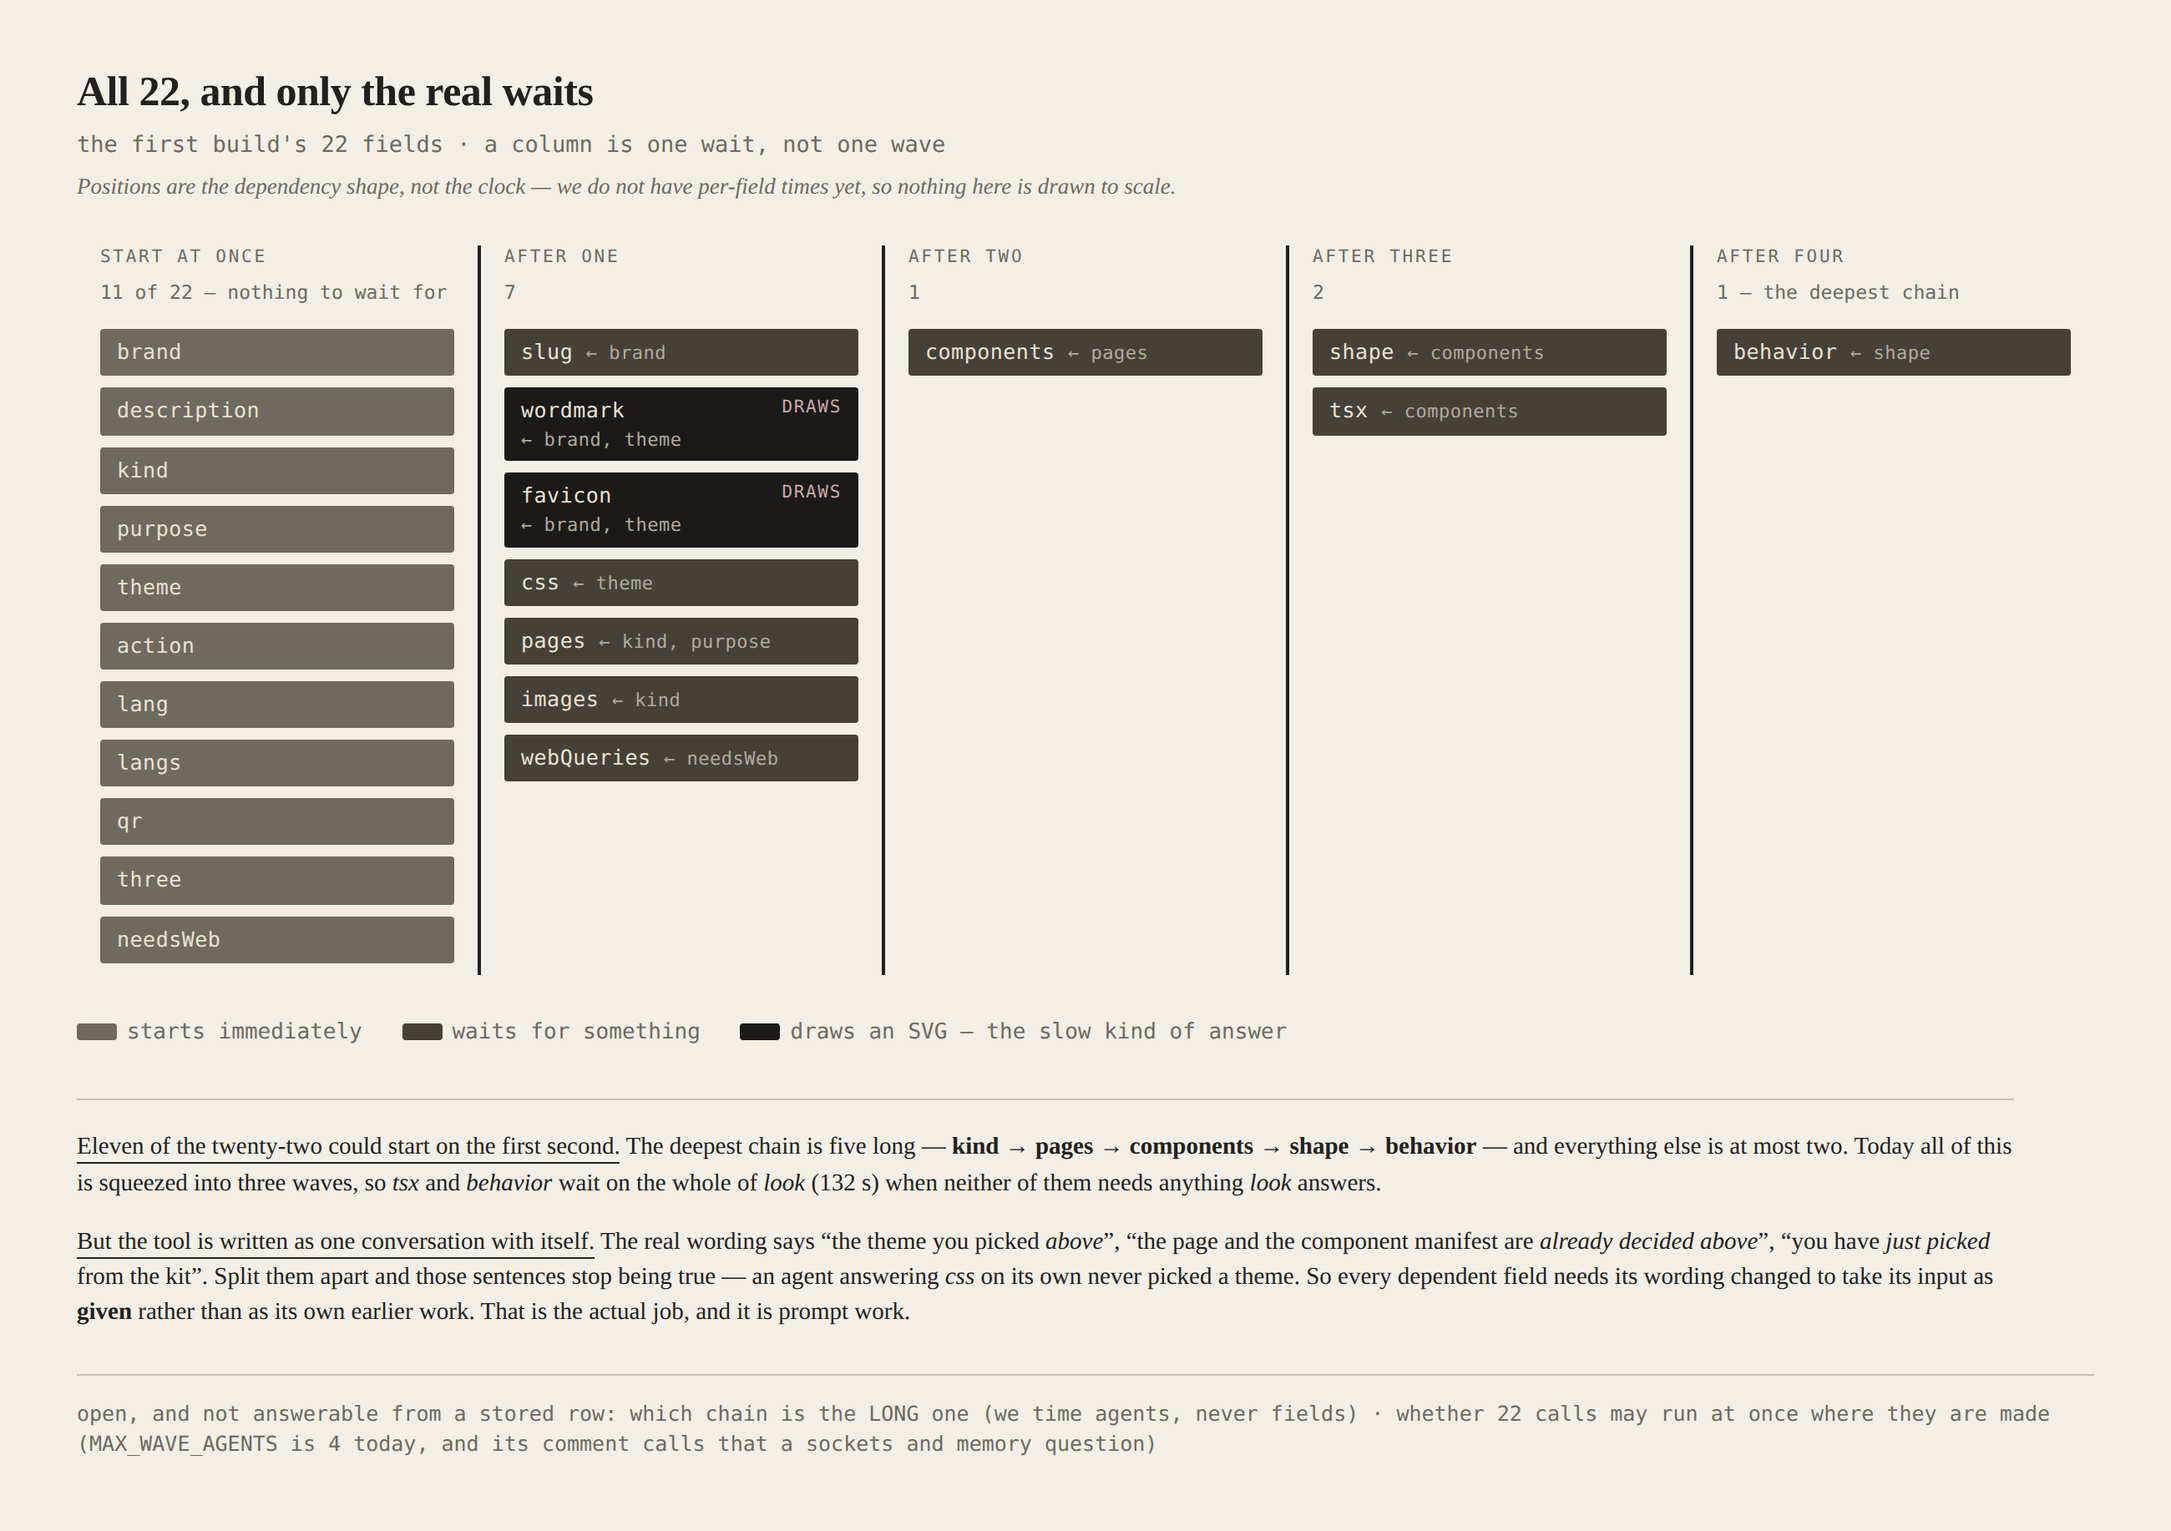
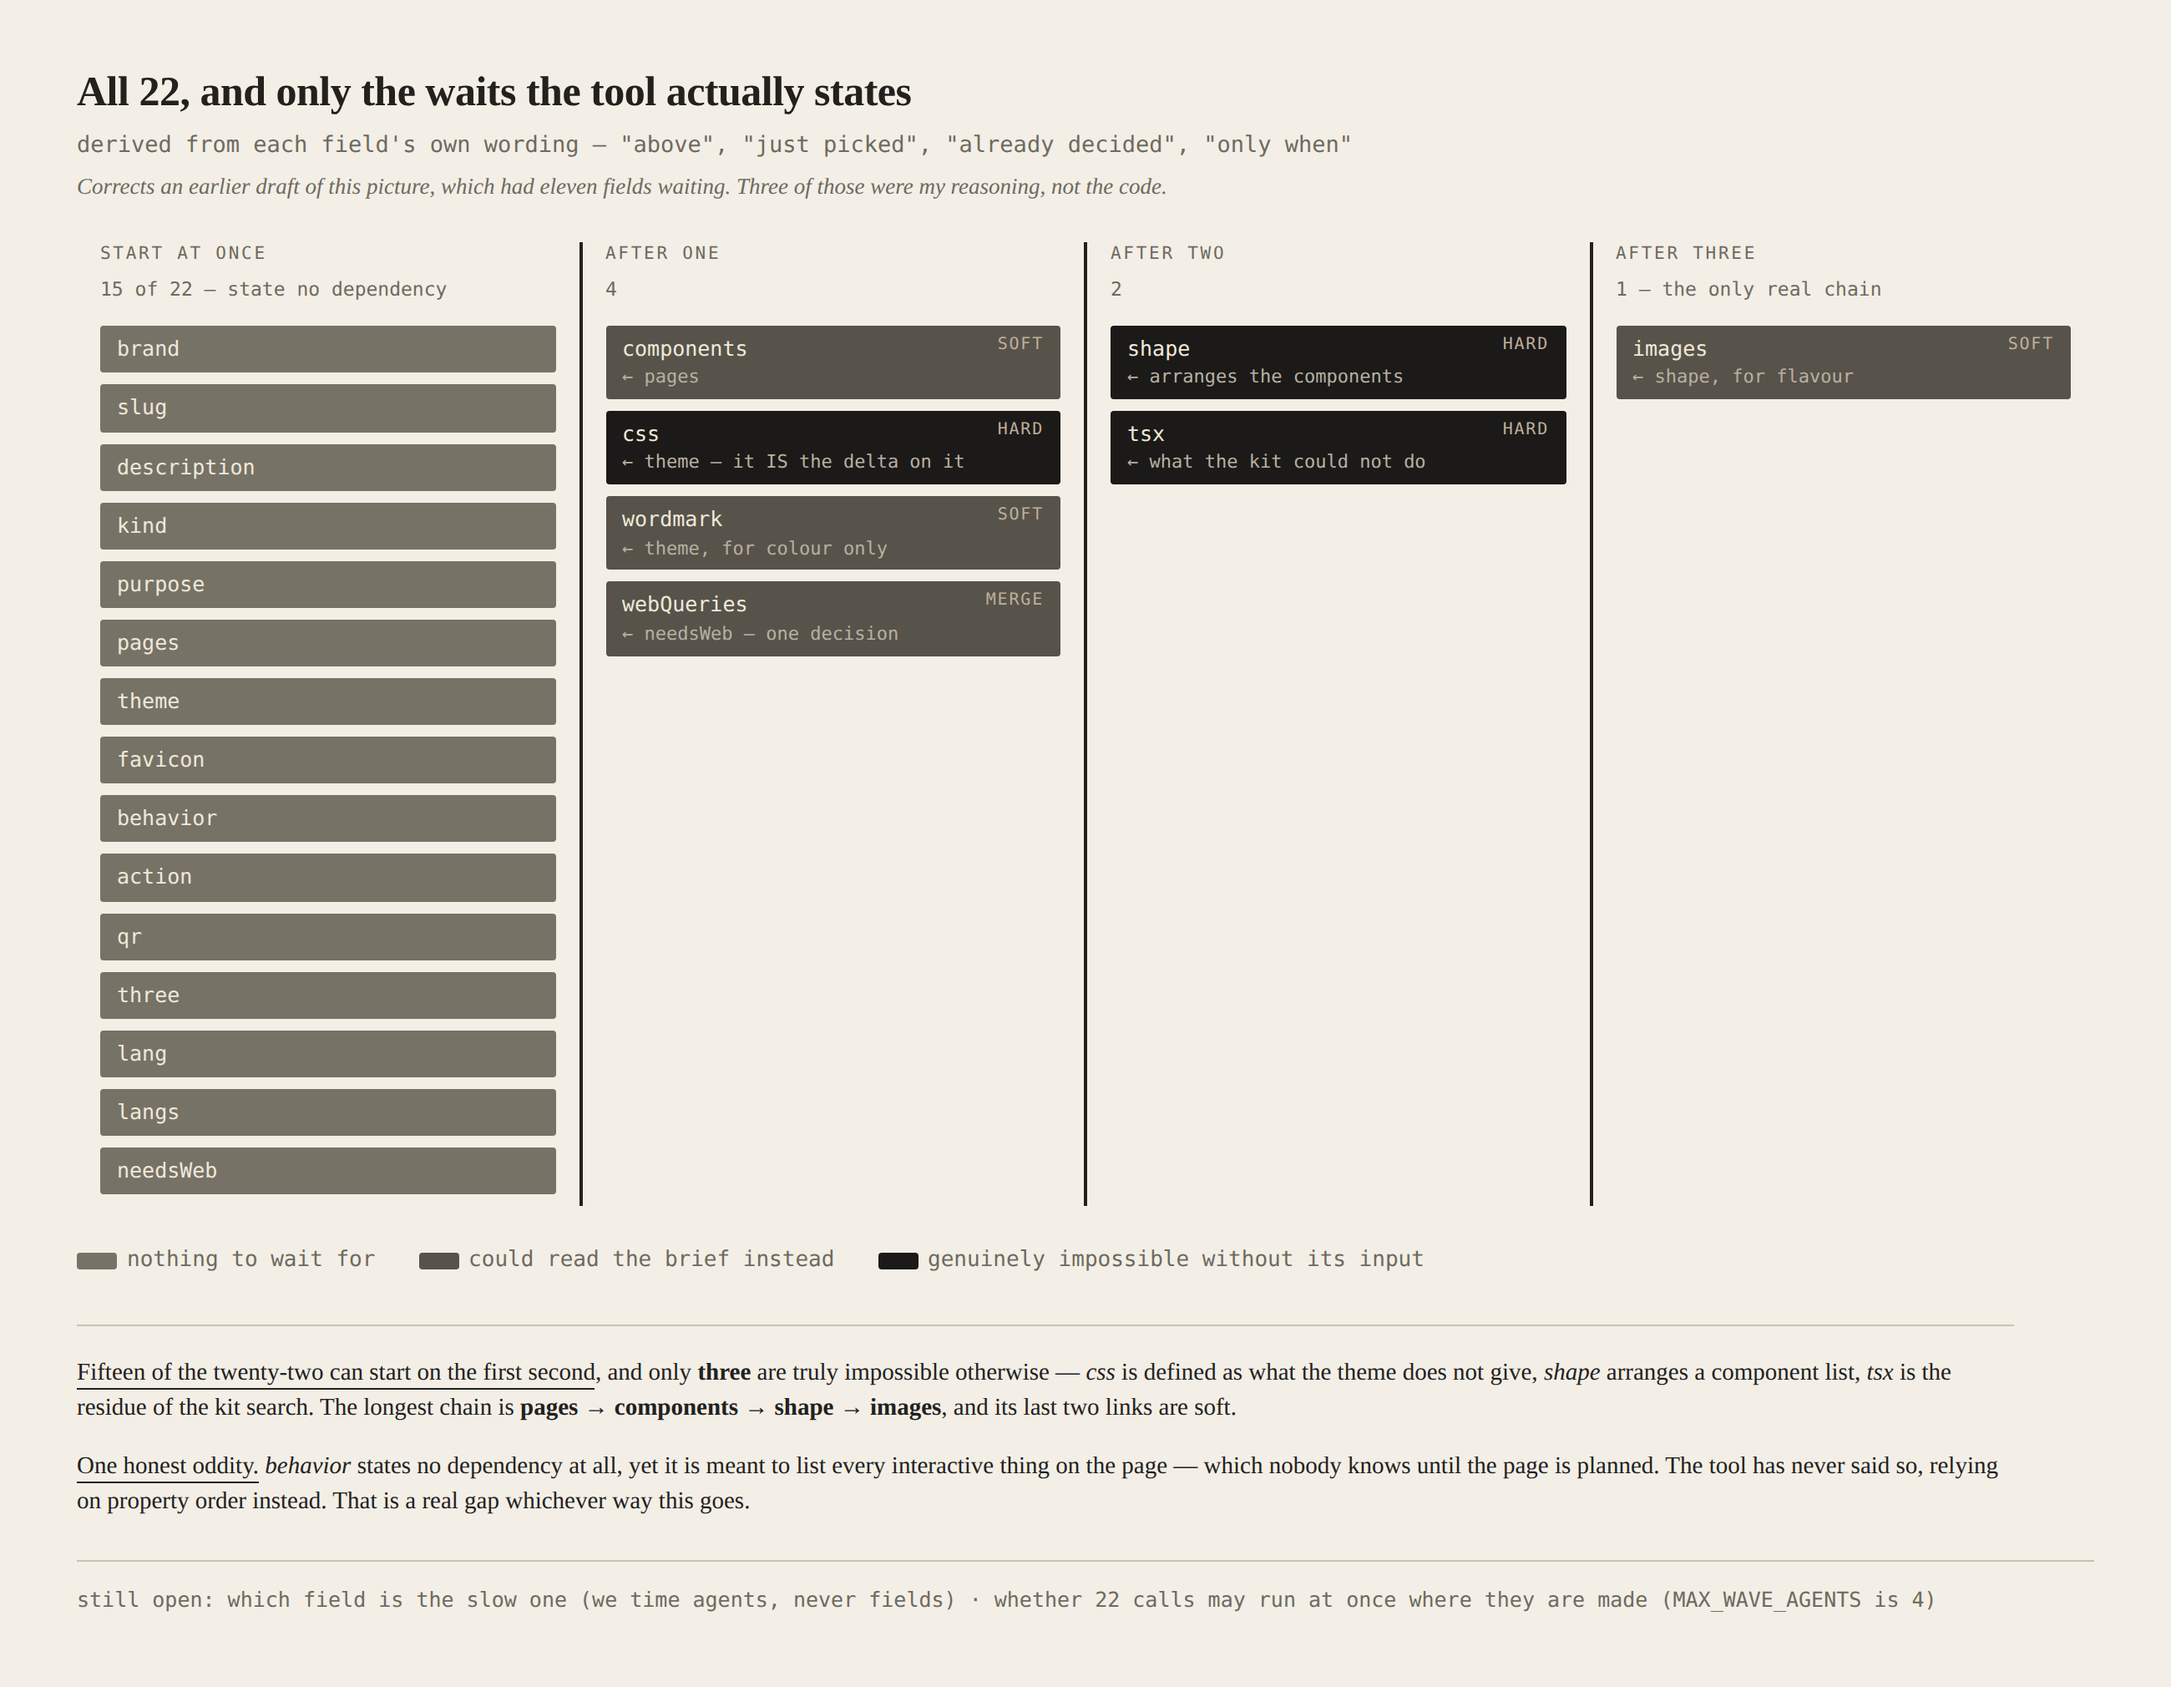
Correct the dependency graph: seven stated, three real, not eleven
The owner asked whether that many fields really need another to finish
first. They do not, and the earlier picture was wrong.

Derived properly this time, off the tool's own sequencing phrases (above,
just picked, already decided, only when <field> is): SEVEN fields state a
dependency -- components<-pages, shape<-pages+components, tsx<-components,
images<-shape, css<-theme, wordmark<-theme for colour, webQueries<-needsWeb
-- and FIFTEEN state nothing. The first draft had eleven waiting:
slug<-brand, pages<-kind and favicon<-theme were my reasoning and appear
nowhere in the code, and behavior was drawn at the end of the longest
chain while stating no dependency at all. Four wrong out of eleven, in a
picture already sent and pushed. This is the repository's own derive-it-
do-not-trust-the-prose rule turned on a session that had just written the
prose.

Of the seven, only three are impossible otherwise: css IS the delta on the
theme, shape arranges a component list, tsx is the residue of the kit
search. components, wordmark and images could read the brief; webQueries
is the back half of one decision and should share needsWeb's agent. So the
longest real chain is pages -> components -> shape -> images and its last
two links are soft -- close to what the owner drew.

AND ONE GENUINE GAP FOUND WHILE CHECKING: behavior is meant to enumerate
every interactive element on the page and the tool never says it waits for
[…]

diff --git a/CLAUDE.md b/CLAUDE.md
@@ -2516,50 +2516,42 @@ stored row.
   time agents, never fields, because an agent's fields go out in ONE call — so
   whether `look`'s 132 s is the wordmark, the favicon or the stylesheet is
   **unknowable without splitting them**, and unlike every measurement of the
-  last two days there is no free instrument for it. The cheapest informative
-  move is therefore to make `look` two agents (the two drawings apart from
-  theme/css) and read one ordinary build; that number is what decides whether
-  one wave is worth the coherence it costs. Owner's call, unstarted.
-- Two other readings off the same build, both free: **`bands:door`**, so the page
-  was written in ONE call with the band canary off, exactly as expected — and
-  that single call took **`genMs` 294,300**, well above `marlow-and-tide`'s
-  180,456, so the single-call page spread is wide and a one-run comparison
-  against it would prove nothing. `img` carried `viaContainer: 1`, the corrected
-  reading, and `container` was 94,414 ms.
-- **MERGED AND DEPLOYED** (owner: *"MERGE"*). `unit tests` run 2421 green, the
-  suite step **84 s** on the exact tree; main fast-forwarded `c35cda52` →
-  `97d69615` at 22:56Z; **deploy run 2082 green in 3m21s**. The gate set in 1 s;
-  the **image step 2m25s** — `built isibi-app-sitebuildcontainer:9268b…8acc8a3a03
-  (registry answered 404; ***69 inputs off ./Dockerfile)` — and the container
-  **ROLLED** (`EDIT isibi-app-sitebuildcontainer`, `9b2b2483f6c968c…` →
-  `9268b…8acc8a3a03`, `SUCCESS Modified application`, applied **22:59:20Z**; the
-  game image `no changes`); `deploy drain: no live leases after 1s`; Wrangler
-  29 s; the gate left to expire on success. **The 15–20 minute hold ended
-  ~23:15–23:20Z.** The image step lands inside the Deploy section's stated band
-  for a push that changes the worker tree and nothing above it.
-- **AND THE STALE-SNAPSHOT TRAP HAD ITS WORST SHOWING YET — FORTY MINUTES, and
-  the recorded tell was the only thing that held.** The job endpoint answered
-  `in_progress` on the image step from 22:59 until ~23:40 for a step that had
-  finished at 22:59:02, so the reading was wrong by **more than ten times the
-  step's own duration**. Reported as neither a hang nor a pass, across six polls.
-  What worked: the run's own `updated_at` sat at **22:56:18Z beside step stamps
-  at 22:56:37Z** — behind the steps, which is the 2026-09-10 rule's proving
-  direction — and the step's expected duration (2–3 minutes, measured on five
-  deploys) said the rest.
-  **AND A SECOND, INDEPENDENT QUERY AGREED WITH THE STALE ONE, which is the new
-  half worth writing down.** `list_workflow_runs` filtered to `status:
-  completed` answered `total_count: 2081` with run 2081 newest — a different
-  code path, the same stale cache. So **corroboration from a second GitHub
-  endpoint is NOT evidence**: they share the cache, and two agreeing reads of one
-  snapshot are one read. The only honest instruments here are the tell above, the
-  step's own band, and — once the job really completes — the LOG, which is what
-  every number in the bullet above comes from. `get_job_logs` answers 404 while
-  the snapshot says in-progress, so it cannot break the tie either.
-- **AND THIS DEPLOY'S HOLD IS MEASURABLE — task #147, and it is free.** Both
-  image ids are stamped: `/api/site/build-health` answering `9b2b2483f6c968c…`
-  means the previous image is still serving, and the flip to
-  `9268b…8acc8a3a03` is the moment the hold really ends. Owner-gated, so this
-  session cannot take the number.
+  last two days there is no free instrument for it.
+- **THE WAVES ARE NOT THE SHAPE — THE OWNER'S IS (2026-09-11, drawn: every
+  field starts at once and only a genuine prerequisite makes one wait, "one of
+  those steps needs one first in order for him to start").** The waves make
+  `tsx` and `behavior` wait on the WHOLE of `look` (132 s) when neither needs
+  anything `look` answers; a dependency graph starts each field the moment its
+  own input lands. **`docs/edits/design-field-graph.png`**.
+- **AND THE DEPENDENCIES ARE FEWER THAN THEY LOOK — MEASURED OFF THE TOOL'S OWN
+  WORDING, after a first draft of that picture got it wrong.** The tool states a
+  dependency in exactly one way: a sequencing phrase in the field's own prose
+  (`above`, `just picked`, `already decided`, `only when <field> is`). **Seven
+  fields carry one**: `components`←pages, `shape`←pages+components,
+  `tsx`←components, `images`←shape, `css`←theme, `wordmark`←theme (colour only),
+  `webQueries`←needsWeb. **Fifteen state nothing at all.** The first draft of
+  the graph had ELEVEN waiting — `slug`←brand, `pages`←kind and `favicon`←theme
+  were MY reasoning and are nowhere in the code, which is this file's own
+  "derive it, don't trust the prose" rule turned on a session that had just
+  written the prose. **Of the seven, only three are impossible otherwise**:
+  `css` IS the delta on the theme, `shape` arranges a component list, `tsx` is
+  the residue of the kit search. `components`, `wordmark` and `images` could
+  read the brief; `webQueries` is the second half of one decision and should
+  simply share `needsWeb`'s agent. **So the longest real chain is
+  `pages → components → shape → images`, and its last two links are soft.**
+- **AND `behavior` STATES NOTHING WHILE NEEDING EVERYTHING — a gap either way.**
+  It is meant to list every interactive element on the page, which nobody knows
+  until the page is planned, and the tool has never said so: it has relied on
+  PROPERTY ORDER to carry a dependency it never wrote down. Under the waves that
+  worked by accident (it is in the last wave); under a graph it would start
+  immediately and design controls for a page that does not exist yet. Whichever
+  shape wins, that sentence needs writing.
+- **THE OBSTACLE IS THE PROSE, NOT THE SCHEDULING.** Those same seven phrases
+  are what makes a split hard: an agent answering `css` alone never "picked a
+  theme above". Every dependent field's wording has to change from *what you
+  decided earlier* to *here is what you are given* — prompt work, which is where
+  this repository has lost real builds. Unstarted; the owner has not said go.
+
 
 ---
 

diff --git a/docs/owner-notes.md b/docs/owner-notes.md
@@ -4491,3 +4491,38 @@ where we've lost real builds before, so it needs care rather than speed.
 
 **Not started.** If you want it, I'd build it behind a flag like the other two
 splits, so nothing changes for anyone until you switch it on.
+
+## 2026-09-11 — you were right to push back: I over-claimed the waits
+
+I said eleven of the twenty-two had to wait for something. **It's seven, and
+only three of those are real.** I checked it properly this time by reading each
+field's own wording instead of reasoning about it.
+
+**How the tool says a field waits.** It uses a phrase — "the theme you picked
+*above*", "you have *just picked* from the kit", "*already decided above*",
+"only when needsWeb is true". Seven fields carry one of those. Fifteen say
+nothing at all.
+
+**Three I made up.** `slug`, `pages` and `favicon` were my reasoning, not the
+code. I had also put `behavior` at the end of the longest chain, and the tool
+never says it waits for anything either. That's four wrong out of eleven, in a
+picture I'd already sent you and pushed. Corrected now —
+`docs/edits/design-field-graph.png` is redrawn.
+
+**Of the seven that do wait, only three genuinely can't be answered otherwise:**
+the stylesheet (it *is* the bit the theme doesn't give you), the layout (it
+arranges the component list), and the custom-components field (it's whatever the
+kit couldn't do). The other four are soft — the logo only wants the theme so its
+colours don't vanish, the photos only want the layout for flavour, and the
+search-queries one is just the back half of a yes/no that should share its
+agent.
+
+**So it lands almost exactly where you drew it.** Fifteen start on the first
+second, and there's one real chain: page → components → layout → photos.
+
+**One genuine gap I found while checking.** `behavior` is supposed to list every
+button, form and toggle on the page — but the tool never tells it to wait for
+the page to be planned. It's been relying on the order of the questions to do
+that silently. Under the current waves it works by luck; under your graph it
+would start immediately and describe controls for a page nobody has designed
+yet. That sentence needs writing whichever way we go.
